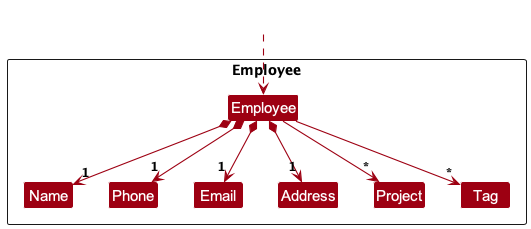
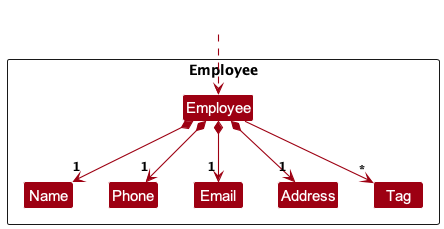
Update Model section of DG

diff --git a/docs/DeveloperGuide.md b/docs/DeveloperGuide.md
@@ -116,7 +116,7 @@ Here are the other classes in `Logic` (omitted from the class diagram above) tha
 <img src="images/ParserClasses.png" width="600"/>
 
 How the parsing works:
-* When called upon to parse a user command, the `TaskHubParser` class creates an `XYZCommandParser` (`XYZ` is a placeholder for the specific command name e.g., `AddCommandParser`) which uses the other classes shown above to parse the user command and create a `XYZCommand` object (e.g., `AddEmployeeCommand`) which the `TaskHubParser` returns back as a `Command` object.
+* When called upon to parse a user command, the `TaskHubParser` class creates an `XYZCommandParser` (`XYZ` is a placeholder for the specific command name e.g., `AddEmployeeCommandParser`) which uses the other classes shown above to parse the user command and create a `XYZCommand` object (e.g., `AddEmployeeCommand`) which the `TaskHubParser` returns back as a `Command` object.
 * All `XYZCommandParser` classes (e.g., `AddEmployeeCommandParser`, `DeleteEmployeeCommandParser`, ...) inherit from the `Parser` interface so that they can be treated similarly where possible e.g, during testing.
 
 ### Model component
@@ -127,14 +127,14 @@ How the parsing works:
 
 The `Model` component,
 
-* stores the TaskHub data i.e., all `Employee`, `Project` and `Task` objects - `Employee` and `Project` objects are separately contained in a `UniqueEmployeeList` object and a `UniqueProjectList` object. `Task` objects exist within the `TaskList` of a `Project`.
+* stores the TaskHub data i.e., all `Employee` and `Project` objects, which are separately contained in a `UniqueEmployeeList` object and a `UniqueProjectList` object. `Task` objects exist within the `TaskList` of a `Project`.
 * stores the currently 'selected' `Employee` and `Project` objects (e.g., results of a search query) as 2 separate _filtered_ lists which are exposed to outsiders as unmodifiable `ObservableList<Employee>` and `ObservableList<Project>` that can be 'observed' e.g. the UI can be bound to this list so that the UI automatically updates when the data in the list change.
 * stores a `UserPref` object that represents the user’s preferences. This is exposed to the outside as a `ReadOnlyUserPref` object.
 * does not depend on any of the other three components (as the `Model` represents data entities of the domain, they should make sense on their own without depending on other components)
 
-<div markdown="span" class="alert alert-info">:information_source: **Note:** An alternative (arguably, a more OOP) model is given below. It has a `Tag` list in the `TaskHub`, which `Employee` references. This allows `TaskHub` to only require one `Tag` object per unique tag, instead of each `Employee` needing their own `Tag` objects.<br>
+<div markdown="span" class="alert alert-info">
 
-<img src="images/BetterModelClassDiagram.png" width="450" />
+:information_source: **Note:** The focus of the above class diagram is on the `Employee`, `Project`, `Task` classes as well as the relevant lists that contain them. More details will be provided in subsequent sections.
 
 </div>
 
@@ -146,8 +146,8 @@ The `Model` component,
 
 The `Employee` component stores an employee's data which comprises:
 
-* a `Name`, `Phone`, `Email`, `Address`, `Project` and `Tag`(s).
-* `Project`(s) and `Tag`(s) are optional.
+* a `Name`, `Phone`, `Email`, `Address` and `Tag`(s).
+* `Tag`(s) are optional.
 
 
 ### Project component
@@ -157,13 +157,15 @@ The `Employee` component stores an employee's data which comprises:
 
 The `Project` component stores a project's data which comprises:
 
-* a `Name`, `Deadline`, `UniqueEmployeeList`, `TaskList`, `ProjectPriority` and `CompletionStatus`.
+* a `Name`, `Deadline`, `UniqueEmployeeList`, `TaskList`, `Priority` and `CompletionStatus`.
 * The `Deadline` is optional.
 * The `UniqueEmployeeList` contains only the `Employee`s under the said `Project`.
 * Each `Employee` in the `UniqueEmployeeList` of the project must also exist in the `UniqueEmployeeList` of the `Model`. (All fields must be the same) 
 * The `TaskList` contains the `Task`s which have been added to the `Project`.
+* The `Employee` (if applicable) in each `Task` in the `TaskList` of the project must also exist in the `UniqueEmployeeList` of the project.
 
 ***Note: For the Model, Employee and Project components, lower-level details (e.g. most class attributes and methods) have been omitted for visual clarity.
+
 
 ### Task component
 **API** : [`Task.java`](https://github.com/AY2324S1-CS2103T-T08-3/tp/blob/master/src/main/java/seedu/address/model/task/Task.java)
@@ -175,6 +177,12 @@ The `Task` component stores a task's data which comprises:
 * a `name`, `deadline`, `Employee`, and `isDone` field.
 * The `Employee` is optional - a Task may be assigned to an `Employee` within the `Project` or not.
 
+
+<div markdown="span" class="alert alert-info">
+
+:information_source: **Note:** The `Employee`, `Project` and `Task` class diagrams above have omitted some details (e.g. class methods) to improve visual clarity. Only the most important fields and associations are shown.
+
+</div>
 
 ### Storage component
 
